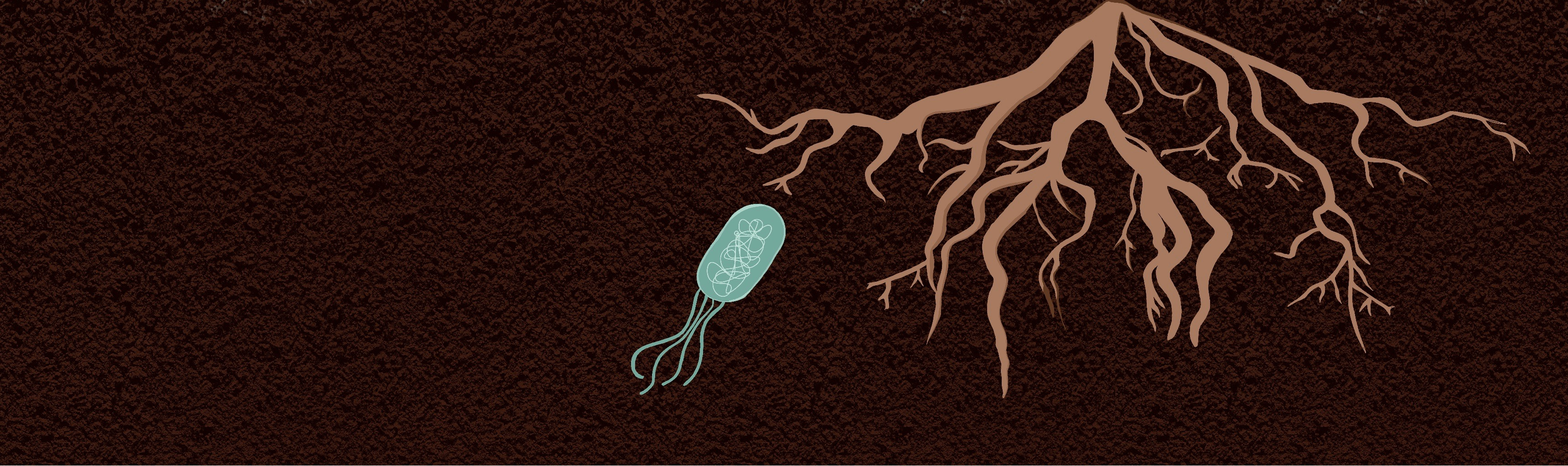
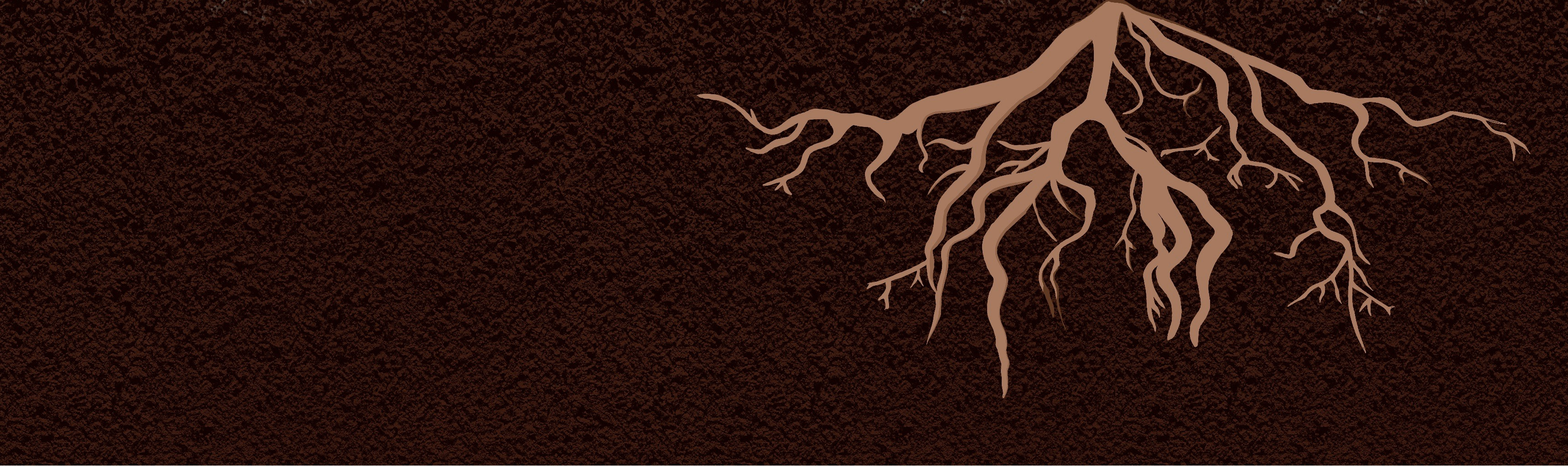
Change Picture - 4

Changed region(s): [[0.4045, 0.4375, 0.4978, 0.8438]]

diff --git a/main.html b/main.html
@@ -93,7 +93,7 @@
         <p>Groundwater safety through synthetic biology</p>
       </div>
       <div class="bacteria-mask">
-        <img src="images/bacteria.gif" alt="Bacteria" class="bacteria-image"/>
+        <img src="images/Putida.png" alt="Bacteria" class="bacteria-image"/>
       </div>
     </div>
   </header>
